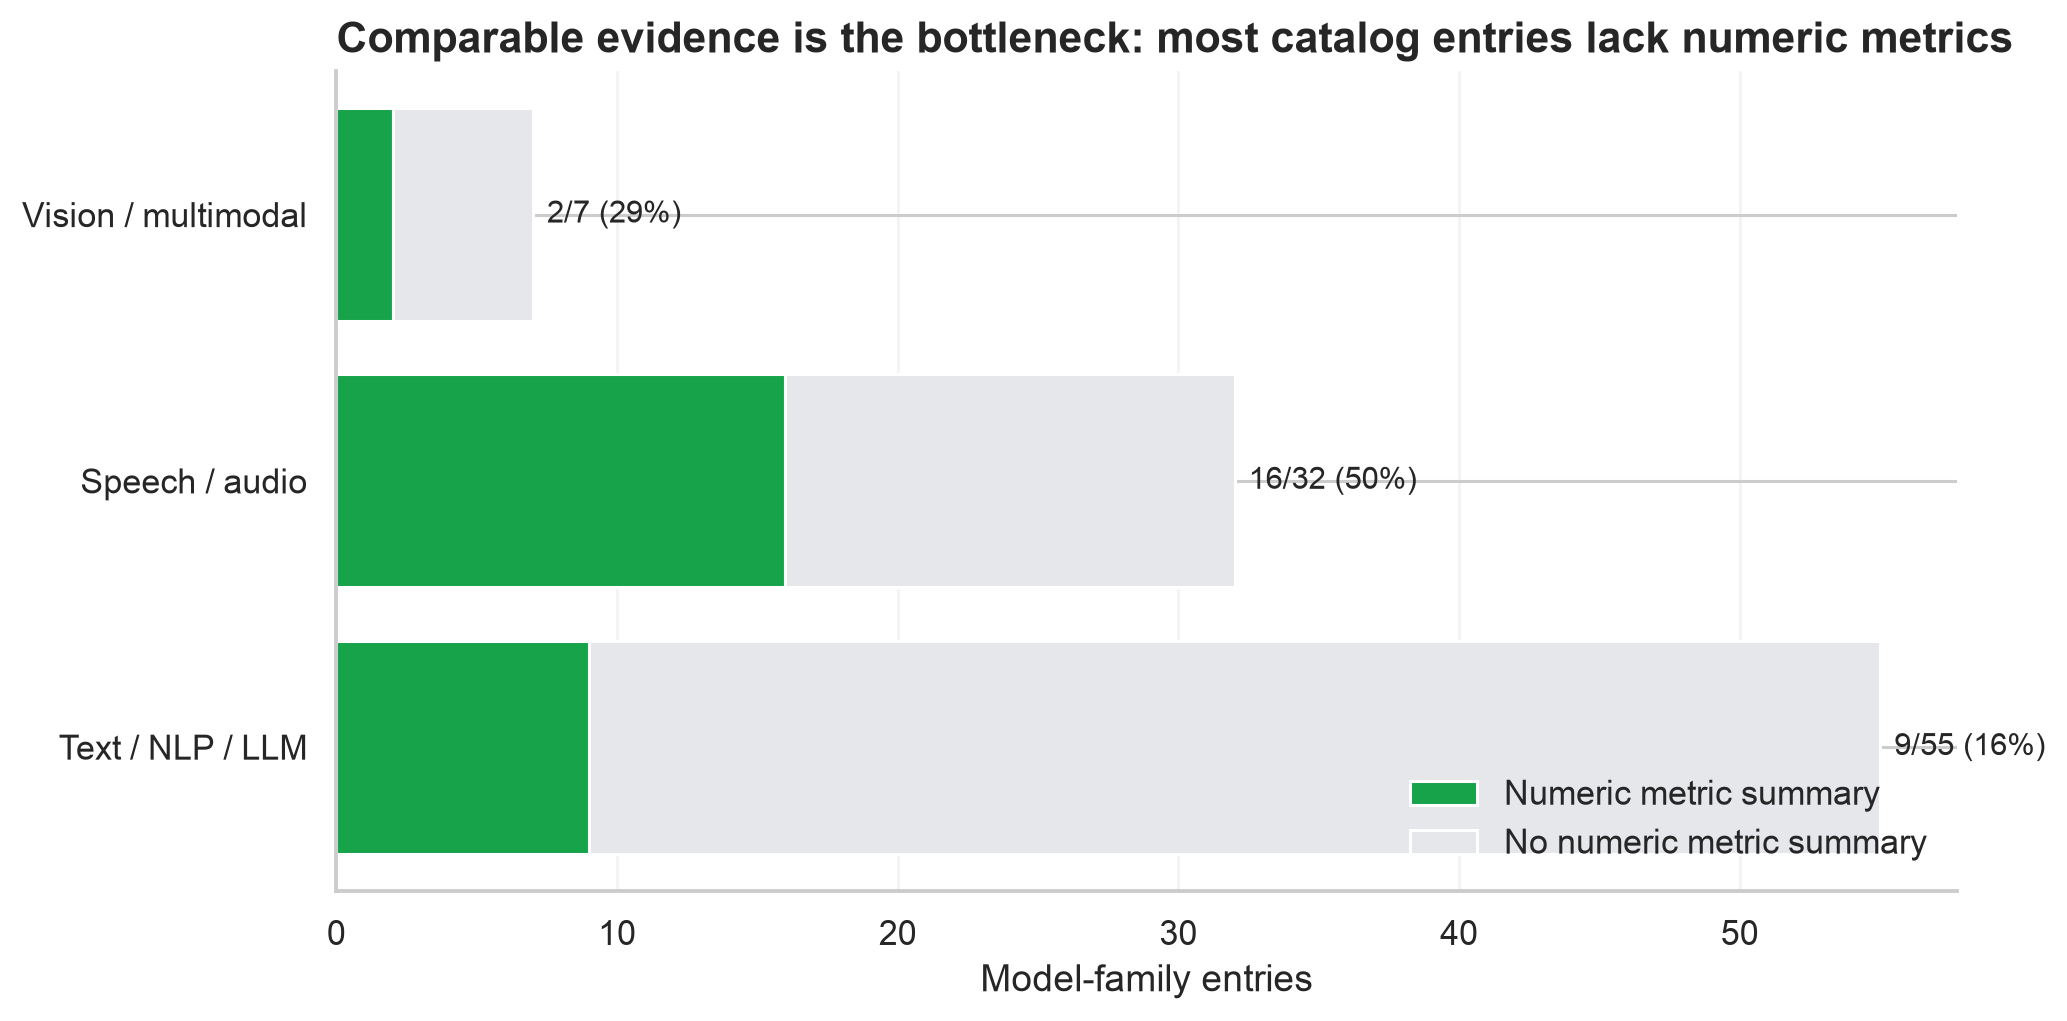
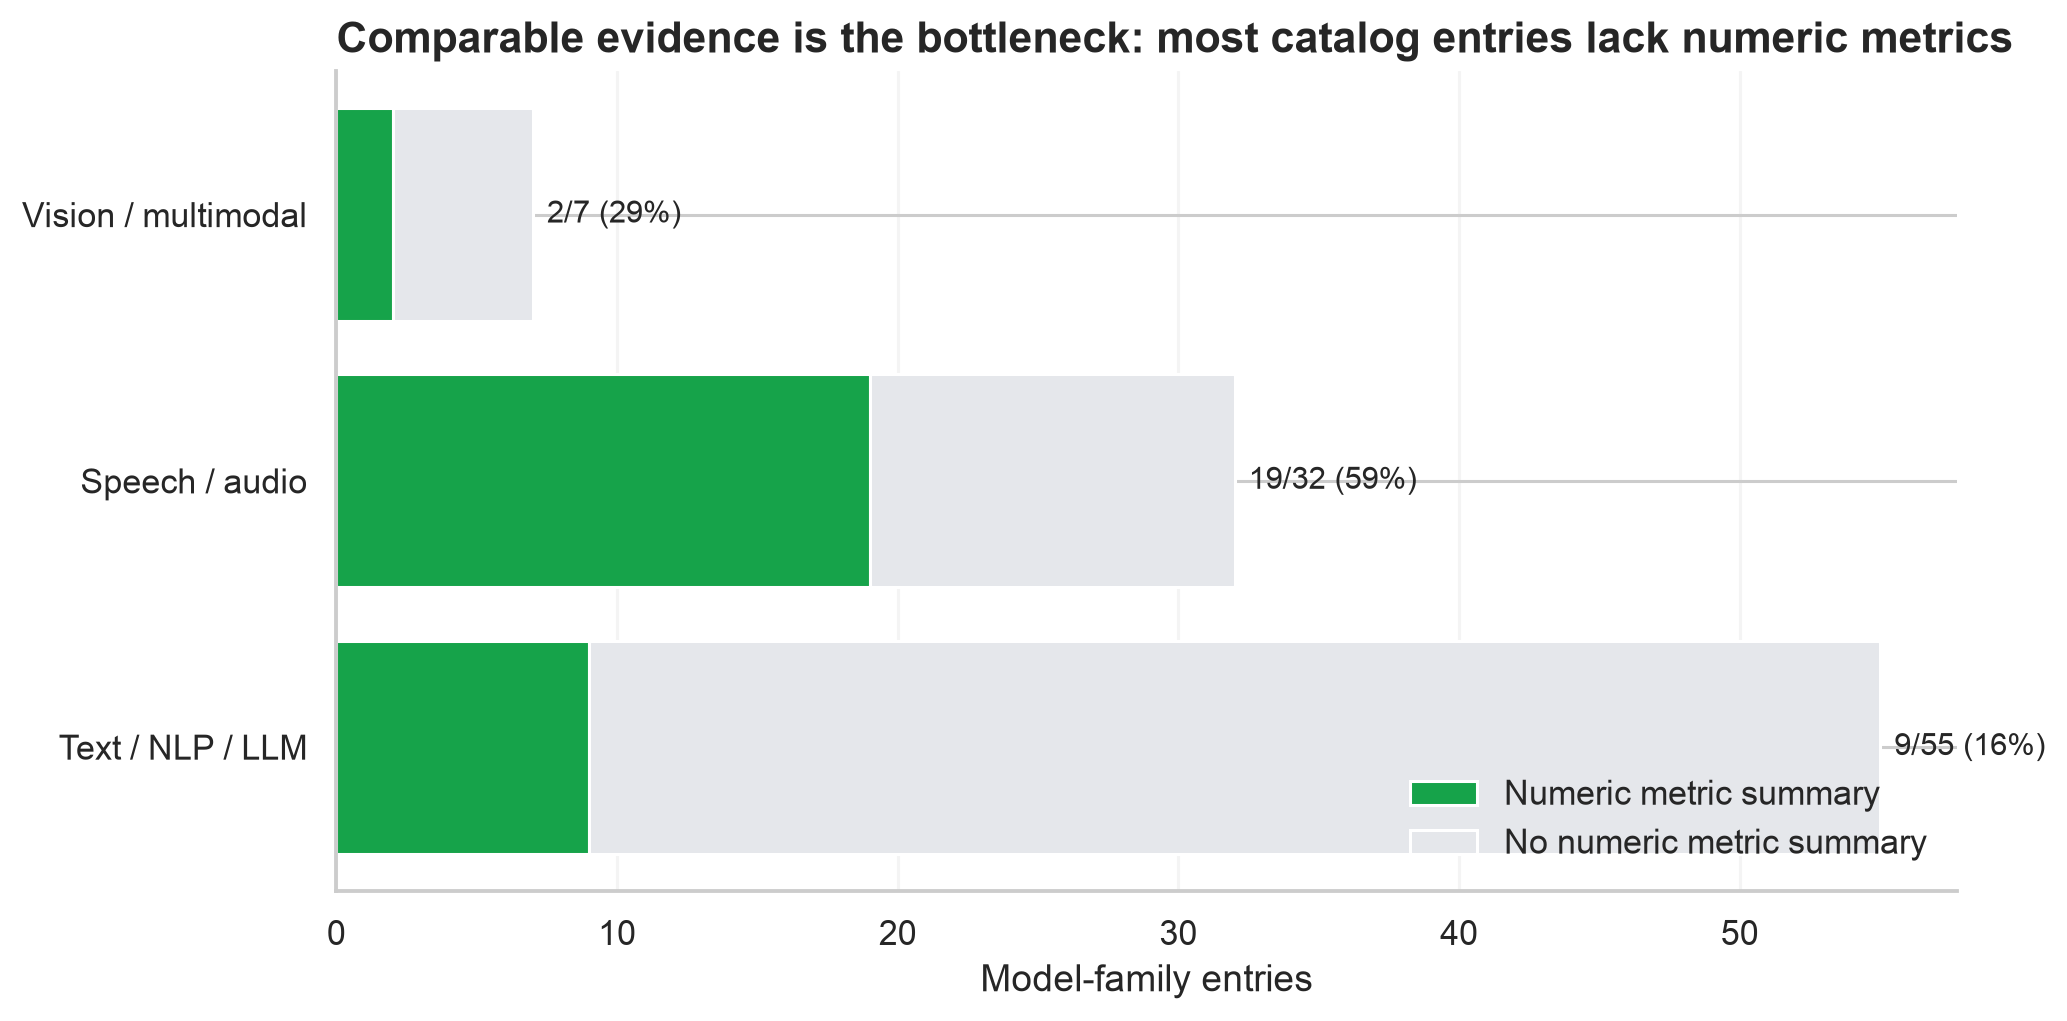
Document non-comparable TTS quality evidence

Changed region(s): [[0.3716, 0.3643, 0.4335, 0.5769]]

diff --git a/analysis/analyze_models.py b/analysis/analyze_models.py
@@ -330,6 +330,33 @@ def plot_asr_metrics(metrics: pd.DataFrame) -> None:
     save_figure(fig, "05_asr_wer_over_time")
 
 
+def tts_quality_rows() -> pd.DataFrame:
+    """Transcribe reported TTS evidence without implying cross-family comparability."""
+    rows = [
+        (2021, "KazakhTTS", "Tacotron 2 / female F1", "MOS", 4.535, "higher", "KazakhTTS-2021 listening study", "paper", "https://arxiv.org/abs/2104.08459", False, "95% CI ±0.049; 50 native listeners and 50 held-out sentences in the female-speaker session."),
+        (2021, "KazakhTTS", "Tacotron 2 / male M1", "MOS", 4.144, "higher", "KazakhTTS-2021 listening study", "paper", "https://arxiv.org/abs/2104.08459", False, "95% CI ±0.063; 50 native listeners and 50 held-out sentences in the male-speaker session."),
+        (2021, "KazakhTTS", "Transformer / female F1", "MOS", 4.436, "higher", "KazakhTTS-2021 listening study", "paper", "https://arxiv.org/abs/2104.08459", False, "95% CI ±0.057; directly comparable with the other KazakhTTS rows only."),
+        (2021, "KazakhTTS", "Transformer / male M1", "MOS", 3.907, "higher", "KazakhTTS-2021 listening study", "paper", "https://arxiv.org/abs/2104.08459", False, "95% CI ±0.076; directly comparable with the other KazakhTTS rows only."),
+        (2023, "TurkicTTS", "Kazakh", "MOS", 4.18, "higher", "TurkicTTS-2023 multilingual survey", "paper", "https://arxiv.org/abs/2305.15749", False, "151 Kazakh raters; different listening protocol from KazakhTTS and KazEmoTTS."),
+        (2023, "TurkicTTS", "Kazakh", "Comprehensibility (%)", 97.0, "higher", "TurkicTTS-2023 multilingual survey", "paper", "https://arxiv.org/abs/2305.15749", False, "Percentage of correct answers in the study's comprehension task."),
+        (2023, "TurkicTTS", "Kazakh", "Intelligibility (%)", 80.0, "higher", "TurkicTTS-2023 multilingual survey", "paper", "https://arxiv.org/abs/2305.15749", False, "Semantically unpredictable sentence transcription task."),
+        (2024, "KazEmoTTS", "female F1", "MOS", 3.55, "higher", "KazEmoTTS-2024 emotional-TTS study", "paper", "https://arxiv.org/abs/2404.01033", False, "Synthesized emotional speech; 64 survey participants across the study."),
+        (2024, "KazEmoTTS", "male M1", "MOS", 3.51, "higher", "KazEmoTTS-2024 emotional-TTS study", "paper", "https://arxiv.org/abs/2404.01033", False, "Synthesized emotional speech; 64 survey participants across the study."),
+        (2024, "KazEmoTTS", "male M2", "MOS", 3.57, "higher", "KazEmoTTS-2024 emotional-TTS study", "paper", "https://arxiv.org/abs/2404.01033", False, "Synthesized emotional speech; 64 survey participants across the study."),
+        (2024, "KazEmoTTS", "female F1", "Average MCD", 6.02, "lower", "KazEmoTTS-2024 emotional-TTS study", "paper", "https://arxiv.org/abs/2404.01033", False, "Average mel-cepstral distortion across six emotions."),
+        (2024, "KazEmoTTS", "male M1", "Average MCD", 7.67, "lower", "KazEmoTTS-2024 emotional-TTS study", "paper", "https://arxiv.org/abs/2404.01033", False, "Average mel-cepstral distortion across six emotions."),
+        (2024, "KazEmoTTS", "male M2", "Average MCD", 7.24, "lower", "KazEmoTTS-2024 emotional-TTS study", "paper", "https://arxiv.org/abs/2404.01033", False, "Average mel-cepstral distortion across six emotions."),
+        (2026, "Chatterbox Multilingual Kazakh", "t3 step 6,000", "Median round-trip CER (%)", 7.4, "lower", "Chatterbox model-card FLEURS round-trip", "model card", "https://huggingface.co/Tohirju/chatterbox-mtl-kazakh", False, "Whisper-large-v3 transcription of 60 synthesized FLEURS-kk samples; mean CER is 10.2%."),
+        (2026, "CosyVoice3 Kazakh", "selected step 40,000", "Mean round-trip WER (%)", 37.6, "lower", "CosyVoice3 model-card FLEURS round-trip", "model card", "https://huggingface.co/Tohirju/cosyvoice3-kazakh-499k", False, "Whisper-large-v3 transcription; final-step WER is 43.6%."),
+    ]
+    cols = [
+        "year", "model", "variant_or_voice", "metric", "value",
+        "better_direction", "evaluation_scope", "source_type", "source_url",
+        "cross_family_comparable", "notes",
+    ]
+    return pd.DataFrame(rows, columns=cols)
+
+
 def mt_rows() -> pd.DataFrame:
     # Values transcribed from KazParC paper Table 6. "parsync" is the released Tilmash model.
     directions = ["EN→KK", "KK→EN", "KK→RU", "RU→KK"]
@@ -435,6 +462,7 @@ def main() -> None:
     summary = write_descriptive_tables(models_df, tasks_df)
     metrics = metric_rows()
     metrics.to_csv(DATA_OUT / "asr_metric_comparisons.csv", index=False)
+    tts_quality_rows().to_csv(DATA_OUT / "tts_quality_evidence.csv", index=False)
     mt = mt_rows()
     mt.to_csv(DATA_OUT / "tilmash_mt_metrics.csv", index=False)
 

diff --git a/analysis/README.md b/analysis/README.md
@@ -1,6 +1,6 @@
 # Deep analytics: Awesome Kazakh Models
 
-Snapshot: **2026-08-23** · repository commit: **`e59d5a2`** · analysis unit: **one catalog row / model family**
+Snapshot: **2026-08-23** · repository commit: **`893958c`** · analysis unit: **one catalog row / model family**
 
 ## Executive findings
 
@@ -54,6 +54,20 @@ FLEURS-kk is the cleanest named cross-model group in the catalog: **GigaAM Multi
 
 Primary evidence: [SAIDA/KSC paper](https://arxiv.org/abs/2009.10334), [2021 multilingual ASR paper](https://arxiv.org/abs/2108.01280), [KSC2 paper](https://www.isca-archive.org/interspeech_2022/mussakhojayeva22_interspeech.pdf), [GigaAM paper](https://arxiv.org/abs/2607.10371) and [model card](https://huggingface.co/ai-sage/GigaAM-Multilingual), [Whisper Turbo KSC2 card](https://huggingface.co/abilmansplus/whisper-turbo-ksc2), [AIT-ASR card](https://huggingface.co/nur-dev/ait-asr), and [Tulpar card](https://huggingface.co/olzhasAl/whisper-large-v3-tulpar). Exact values and comparability notes are in [`data/asr_metric_comparisons.csv`](data/asr_metric_comparisons.csv).
 
+### TTS quality: evidence exists, but no valid shared plot
+
+All five TTS families below are already present in the main catalog. Their quality evidence is now recorded in the structured analysis, but a cross-family comparison plot is intentionally omitted: the studies do not share the same metric, speakers, sentences, listeners, synthesizer task, or evaluation protocol. Plotting the reported numbers together would imply a ranking that the evidence cannot support.
+
+| Model | Reported Kazakh quality evidence | Valid comparison scope |
+|---|---|---|
+| KazakhTTS (2021) | Tacotron 2 MOS: 4.535 (female F1), 4.144 (male M1); Transformer MOS: 4.436 and 3.907 | Tacotron 2 versus Transformer is comparable only within the original matched listening study. |
+| TurkicTTS (2023) | MOS 4.18; comprehensibility 97%; intelligibility 80% | Its multilingual survey and listening tasks differ from the other studies. |
+| KazEmoTTS (2024) | Synthesized-speech MOS 3.51–3.57; average MCD 6.02–7.67 across three voices | Emotional synthesis, different voices, stimuli, and listener protocol. |
+| Chatterbox Multilingual Kazakh (2026) | Median round-trip CER 7.4%, mean CER 10.2%, using Whisper-large-v3 on 60 synthesized FLEURS-kk samples | ASR-based intelligibility proxy; not human naturalness and not interchangeable with WER. |
+| CosyVoice3 Kazakh (2026) | Mean round-trip WER 37.6% at the selected checkpoint, versus 43.6% at the final step | Supports checkpoint selection within this training run only. |
+
+Primary evidence: [KazakhTTS paper, Table 3](https://arxiv.org/abs/2104.08459), [TurkicTTS paper, Table 3](https://arxiv.org/abs/2305.15749), [KazEmoTTS paper, Tables 3–5](https://arxiv.org/abs/2404.01033), [Chatterbox model card](https://huggingface.co/Tohirju/chatterbox-mtl-kazakh), and [CosyVoice3 model card](https://huggingface.co/Tohirju/cosyvoice3-kazakh-499k). The transcribed values, evaluation scopes, and explicit cross-family-comparability flags are in [`data/tts_quality_evidence.csv`](data/tts_quality_evidence.csv).
+
 ### Machine translation: Tilmash
 
 The KazParC paper offers a strong same-test-set comparison of NLLB base, KazParC-only fine-tuning, Tilmash (the paper's `parsync` checkpoint), Yandex, and Google. Averaged over the four directions involving Kazakh shown below:
@@ -77,15 +91,13 @@ Source: [ISSAI Qwen3.5 Kazakh model card](https://huggingface.co/issai/Qwen3.5-3
 
 ### Other paper/model-card metrics not placed on a shared leaderboard
 
-- KazakhTTS (2021) reports Tacotron 2 MOS of 4.535 for its female voice and 4.144 for its male voice; Transformer scores are 4.436 and 3.907. The same listening study supports comparisons within that paper only. [Paper, Table 3](https://www.isca-archive.org/interspeech_2021/mussakhojayeva21_interspeech.pdf).
-- TurkicTTS (2023) reports Kazakh MOS 4.18, 97% comprehensibility, and 80% intelligibility. Its evaluation protocol differs from KazakhTTS, so the two MOS numbers are not a clean time series. [Paper, Table 3](https://www.isca-archive.org/interspeech_2023/yeshpanov23_interspeech.pdf).
 - TurkicOCR-SVTRv2-B reports Kazakh CER 1.71%, while Kazakh TrOCR reports 3.7%. Their test sets differ, so 1.71 cannot be interpreted as a head-to-head win.
 - e5-base-kazakh reports Kazakh SNLI R@1 0.887 versus 0.433 for its base and STS-B Pearson 0.817 versus 0.708. KazEmbed-V5 reports Hits@1 72%, Hits@5 96%, and MRR 0.835 on a different retrieval evaluation; the two embedding models cannot be ranked from those figures.
 - SozKZ OmniAudio reports 21.28% WER on only 50 in-domain `kzcalm-tts-kk-v1` samples. This is useful internal evidence but not comparable to the public ASR panels. [Model card](https://huggingface.co/stukenov/sozkz-core-omniaudio-70m-kk-asr-v1).
 
 ## Evidence quality and limitations
 
-Only **27 of 94 families (28.7%)** have a numeric metric summary in the structured catalog. Coverage is 16/32 (50%) for speech, 9/55 (16%) for text, and 2/7 (29%) for vision/multimodal. Older papers add several useful metrics that are not yet copied into the YAML, but the overall conclusion holds: missing standardized evaluation is the main obstacle to a trustworthy cross-model ranking.
+Only **30 of 94 families (31.9%)** have a numeric metric summary in the structured catalog. Coverage is 19/32 (59%) for speech, 9/55 (16%) for text, and 2/7 (29%) for vision/multimodal. Recording the previously omitted TTS results improves evidence coverage, but not cross-family comparability: missing standardized evaluation remains the main obstacle to a trustworthy ranking.
 
 ![Metric coverage](figures/08_metric_coverage.png)
 
@@ -110,4 +122,4 @@ python3 -m venv .venv
 .venv/bin/python analysis/analyze_models.py
 ```
 
-The script regenerates all CSV/JSON tables under [`analysis/data`](data/) and all PNG/SVG plots under [`analysis/figures`](figures/). The flattened catalog used for audit is [`data/catalog_snapshot.csv`](data/catalog_snapshot.csv), and the compact machine-readable summary is [`data/summary.json`](data/summary.json).
+The script regenerates all CSV/JSON tables under [`analysis/data`](data/) and all PNG/SVG plots under [`analysis/figures`](figures/). The flattened catalog used for audit is [`data/catalog_snapshot.csv`](data/catalog_snapshot.csv), the protocol-aware TTS evidence is [`data/tts_quality_evidence.csv`](data/tts_quality_evidence.csv), and the compact machine-readable summary is [`data/summary.json`](data/summary.json).
